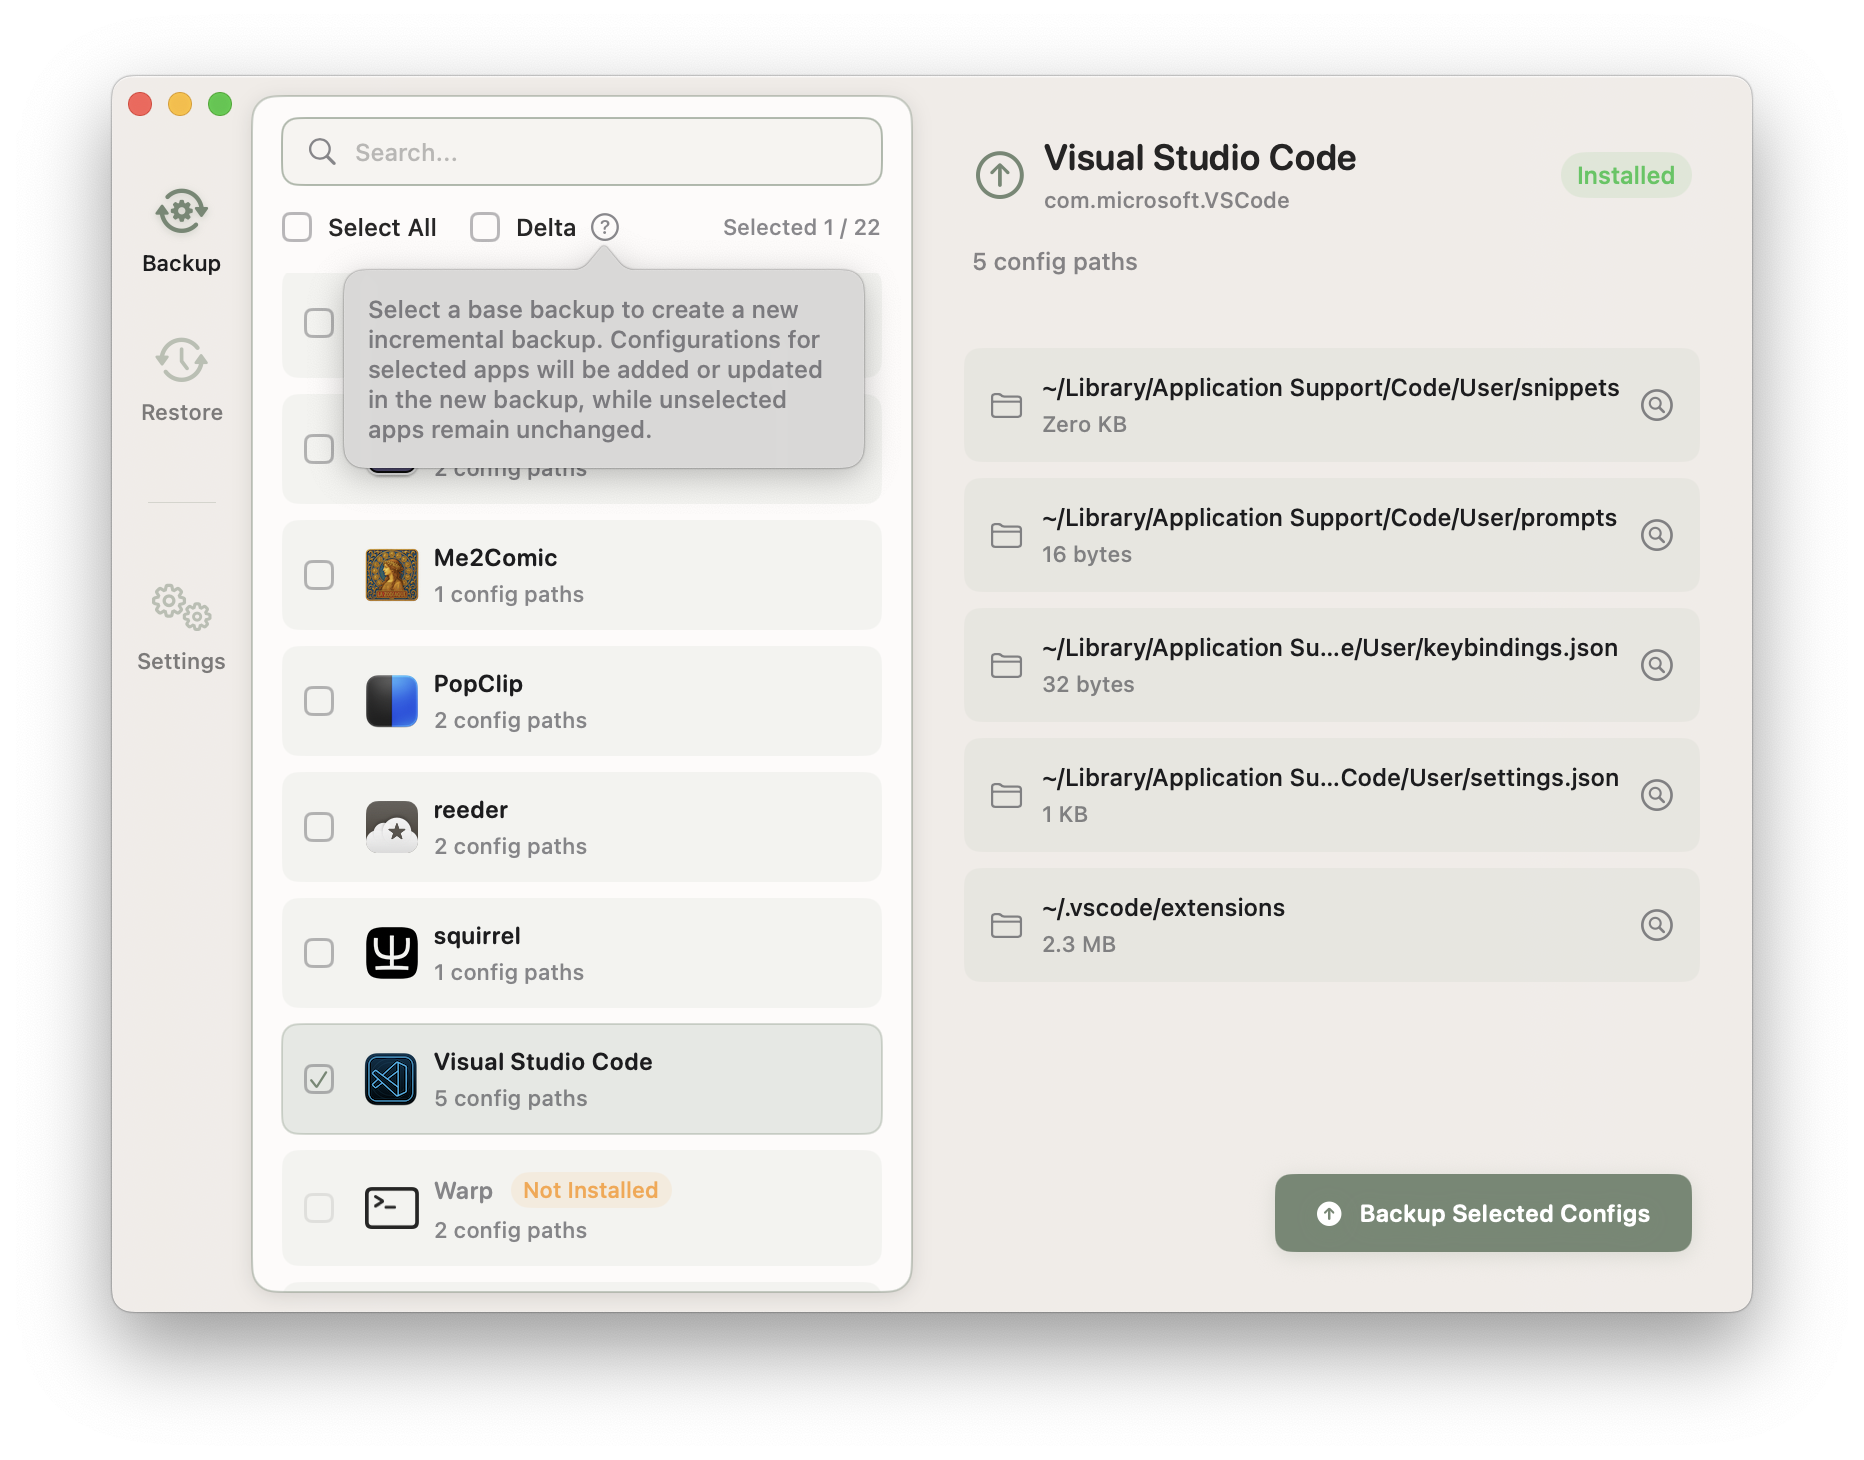
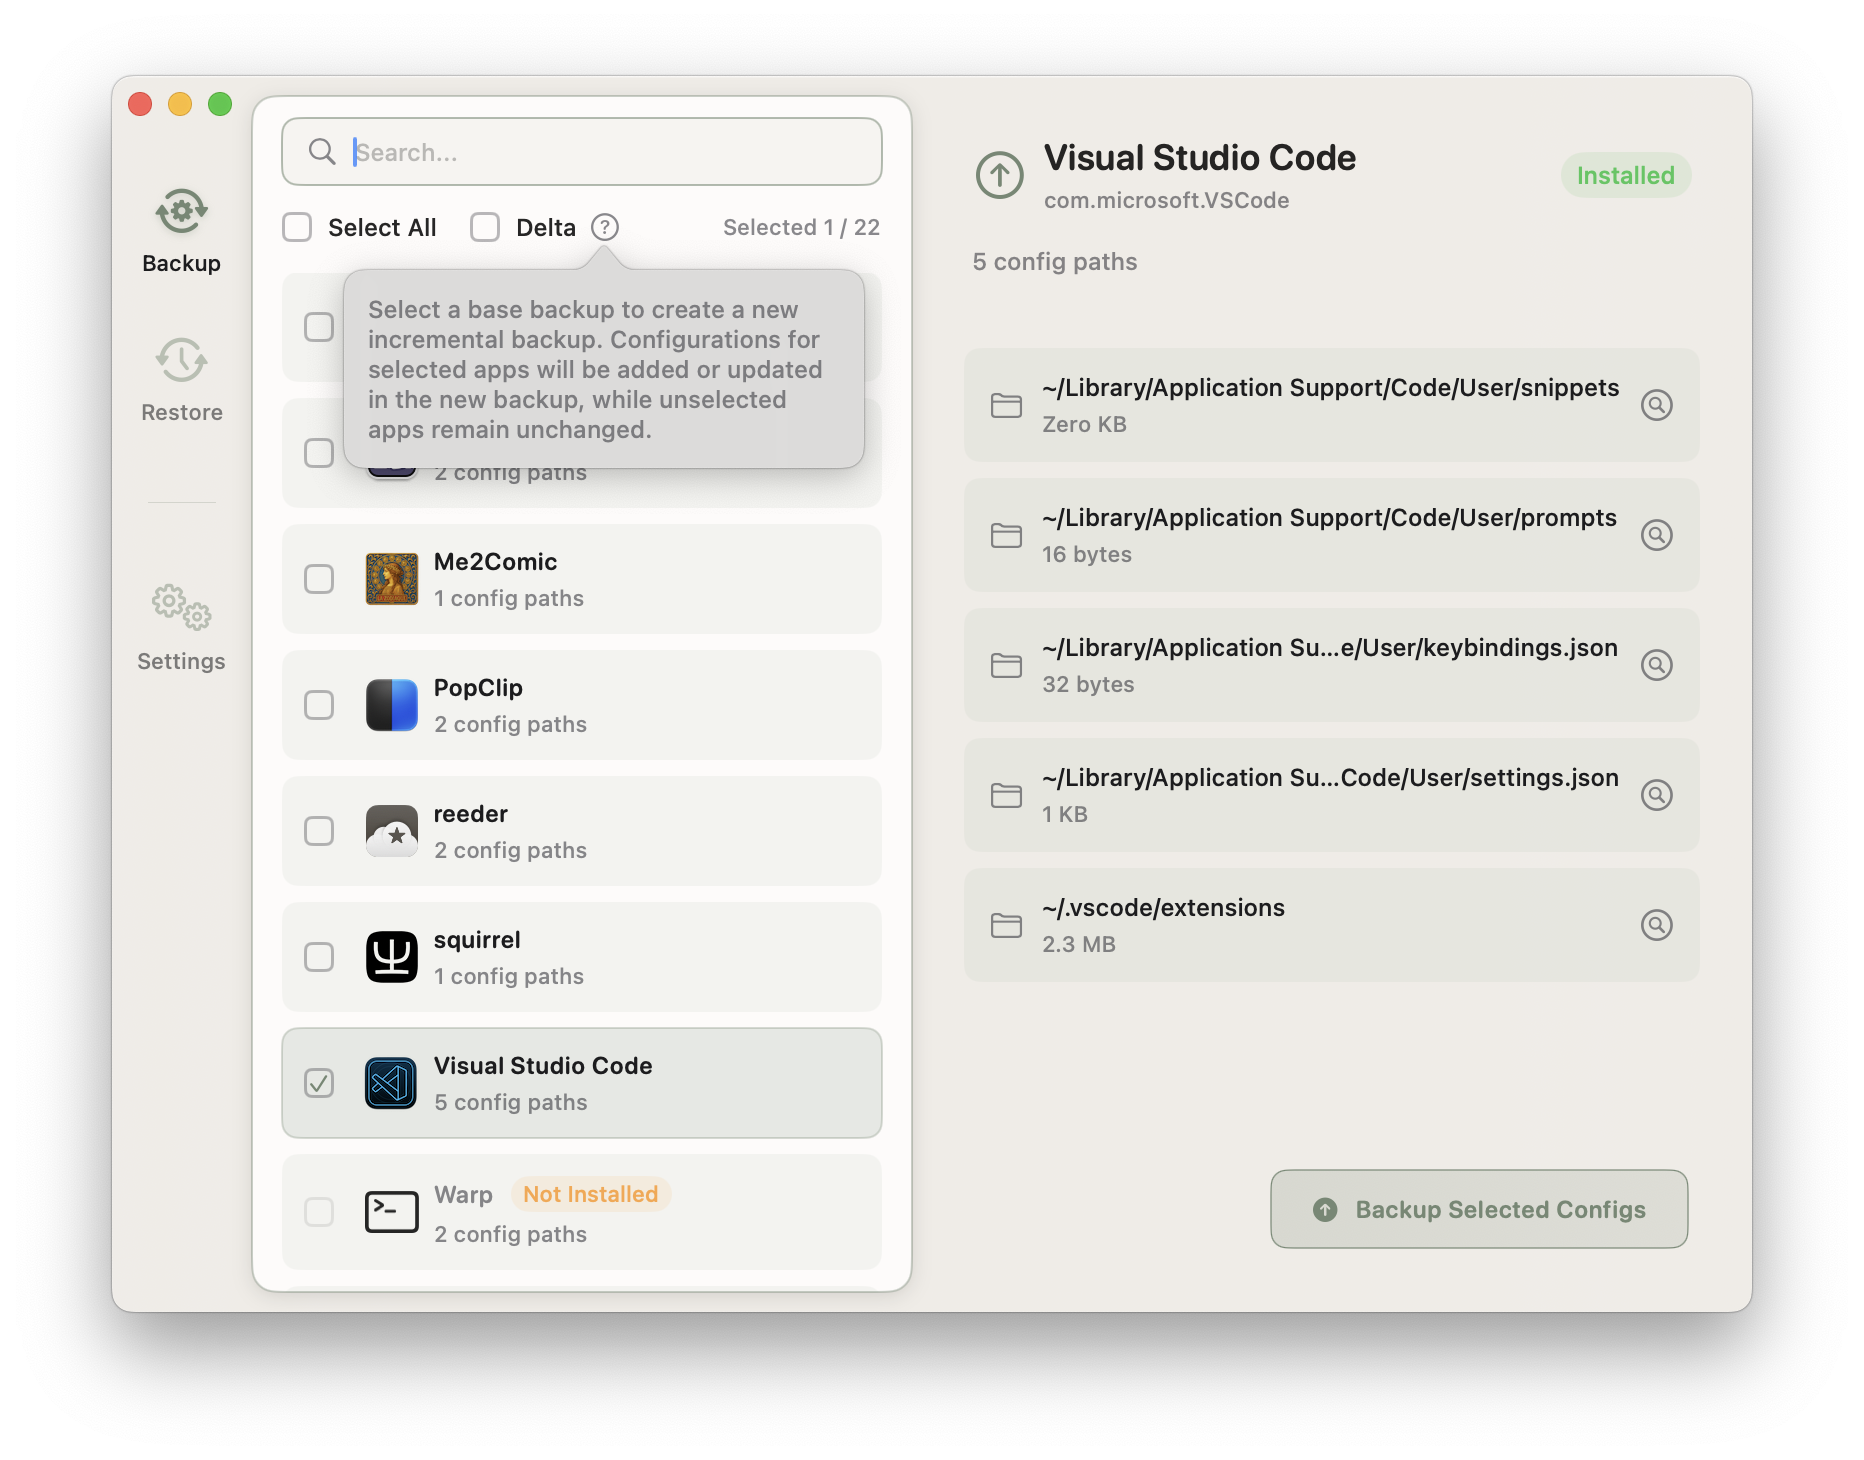
feat: replace primary button style with outline design

diff --git a/PocketPrefs/UI/Components/CommonComponents.swift b/PocketPrefs/UI/Components/CommonComponents.swift
@@ -145,24 +145,31 @@ struct PrimaryButtonStyle: ButtonStyle {
     func makeBody(configuration: Configuration) -> some View {
         configuration.label
             .font(DesignConstants.Typography.headline)
-            .foregroundColor(.white)
+            .foregroundColor(Color.App.accent.color(for: colorScheme))
             .padding(.horizontal, 20)
             .padding(.vertical, 12)
             .background(
                 RoundedRectangle(cornerRadius: DesignConstants.Layout.smallCornerRadius)
                     .fill(
-                        (Color.App.accent.color(for: colorScheme))
-                            .opacity(isEnabled ? (isHovered ? 0.9 : 1.0) : 0.5)
+                        LinearGradient(
+                            gradient: Gradient(colors: [
+                                Color.App.accent.color(for: colorScheme).opacity(isHovered ? 0.15 : 0.1),
+                                Color.App.accent.color(for: colorScheme).opacity(isHovered ? 0.1 : 0.1)
+                            ]),
+                            startPoint: .topLeading,
+                            endPoint: .bottomTrailing
+                        )
+                    )
+                    .overlay(
+                        RoundedRectangle(cornerRadius: DesignConstants.Layout.smallCornerRadius)
+                            .stroke(
+                                Color.App.accent.color(for: colorScheme),
+                                lineWidth: 0.6
+                            )
                     )
             )
-            .scaleEffect(configuration.isPressed ? 0.98 : 1)
-            .shadow(
-                color: (Color.App.accent.color(for: colorScheme)).opacity(isEnabled ? (isHovered ? 0.4 : 0.2) : 0.1),
-                radius: isHovered ? 10 : 5,
-                x: 0,
-                y: isHovered ? 4 : 2
-            )
-            .animation(DesignConstants.Animation.smooth, value: configuration.isPressed || isHovered)
+            .opacity(isEnabled ? 1.0 : 0.5)
+            .opacity(configuration.isPressed ? 0.7 : 1.0)
             .onHover { hovering in
                 isHovered = hovering
             }
@@ -188,6 +195,6 @@ struct SecondaryButtonStyle: ButtonStyle {
                     .stroke(Color.App.lightSeparator.color(for: colorScheme), lineWidth: 0.5)
             )
             .scaleEffect(configuration.isPressed ? 0.96 : 1)
-            .animation(DesignConstants.Animation.quick, value: configuration.isPressed)
+            .opacity(configuration.isPressed ? 0.8 : 1.0)
     }
 }

diff --git a/PocketPrefs/UI/Extensions/ColorExtensions.swift b/PocketPrefs/UI/Extensions/ColorExtensions.swift
@@ -67,7 +67,7 @@ extension Color {
         )
         static let primary = AdaptiveColor(
             light: Color(hex: "1C1C1E"),
-            dark: Color(hex: "FFFFFF")
+            dark: Color(hex: "EBEBF5", opacity: 0.95)
         )
         static let secondary = AdaptiveColor(
             light: Color(hex: "3C3C43", opacity: 0.6),
@@ -135,7 +135,7 @@ extension Color {
         // Text Colors
         static let primaryText = AdaptiveColor(
             light: Color(hex: "1C1C1E"),
-            dark: Color(hex: "FFFFFF")
+            dark: Color(hex: "EBEBF5", opacity: 0.95)
         )
         static let secondaryText = AdaptiveColor(
             light: Color(hex: "3C3C43", opacity: 0.6),

diff --git a/PocketPrefs/Features/Settings/Views/Components/CustomAppsComponents.swift b/PocketPrefs/Features/Settings/Views/Components/CustomAppsComponents.swift
@@ -313,7 +313,7 @@ struct AddAppSheet: View {
                     .disabled(isLoadingAppInfo)
                 
                 Button(NSLocalizedString("Settings_Add_App", comment: ""), action: onAdd)
-                    .buttonStyle(PrimaryButtonStyle())
+                    .buttonStyle(SecondaryButtonStyle())
                     .disabled(appName.isEmpty || bundleId.isEmpty || isLoadingAppInfo)
                     .keyboardShortcut(.defaultAction)
             }
